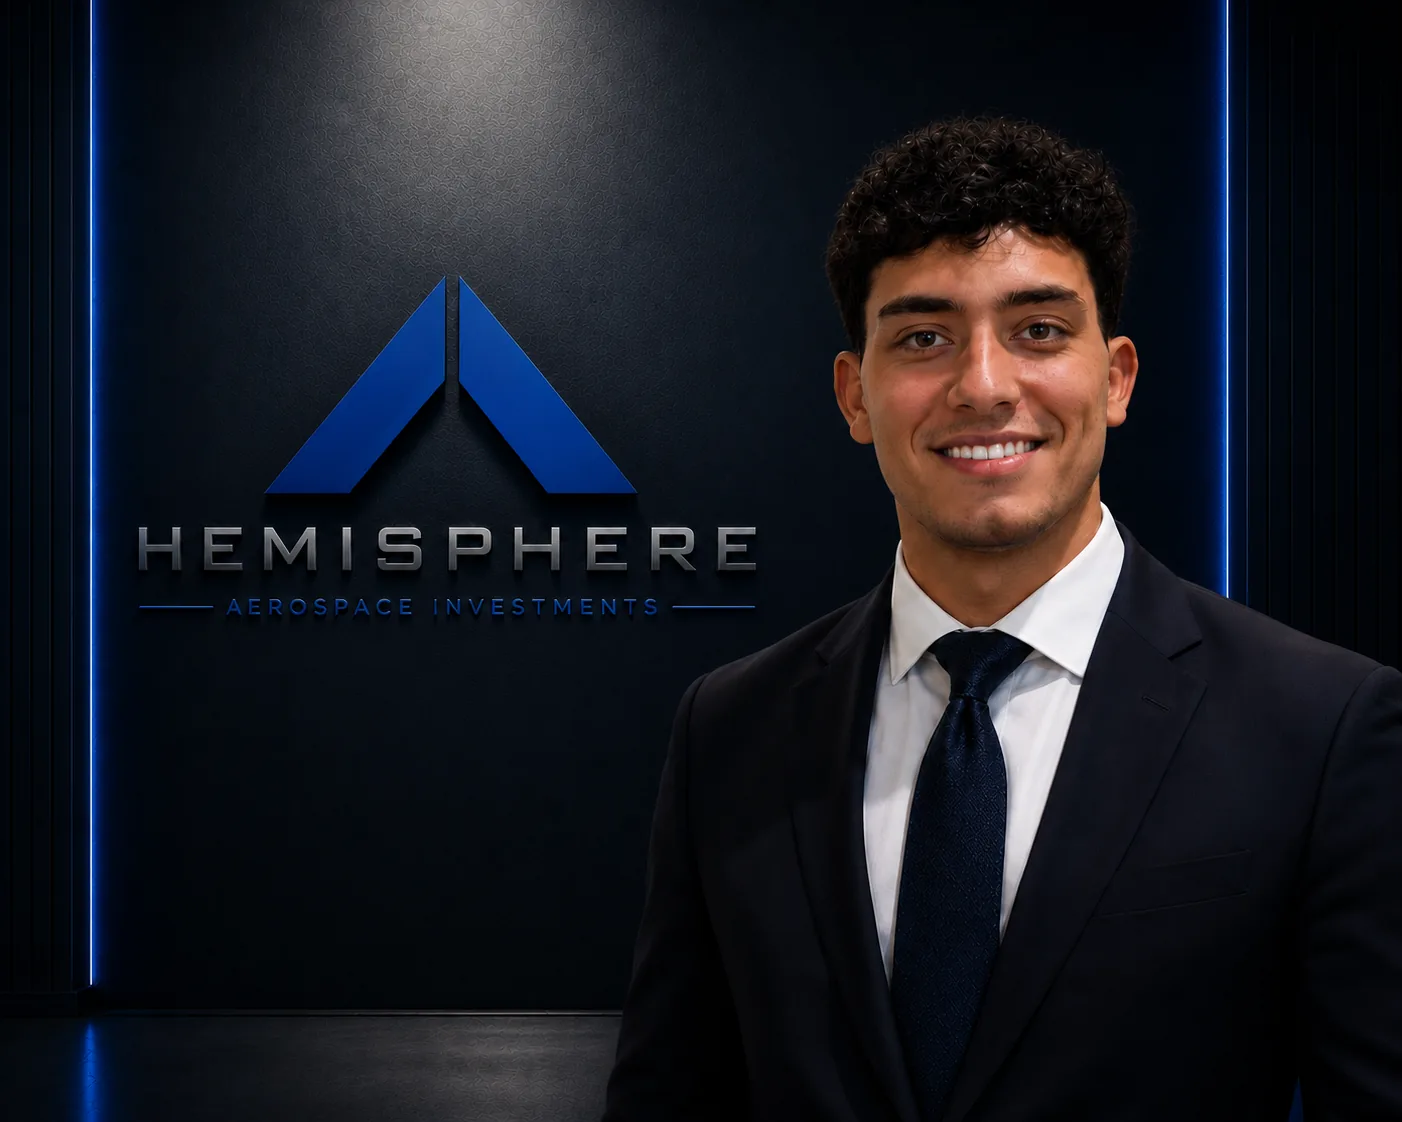
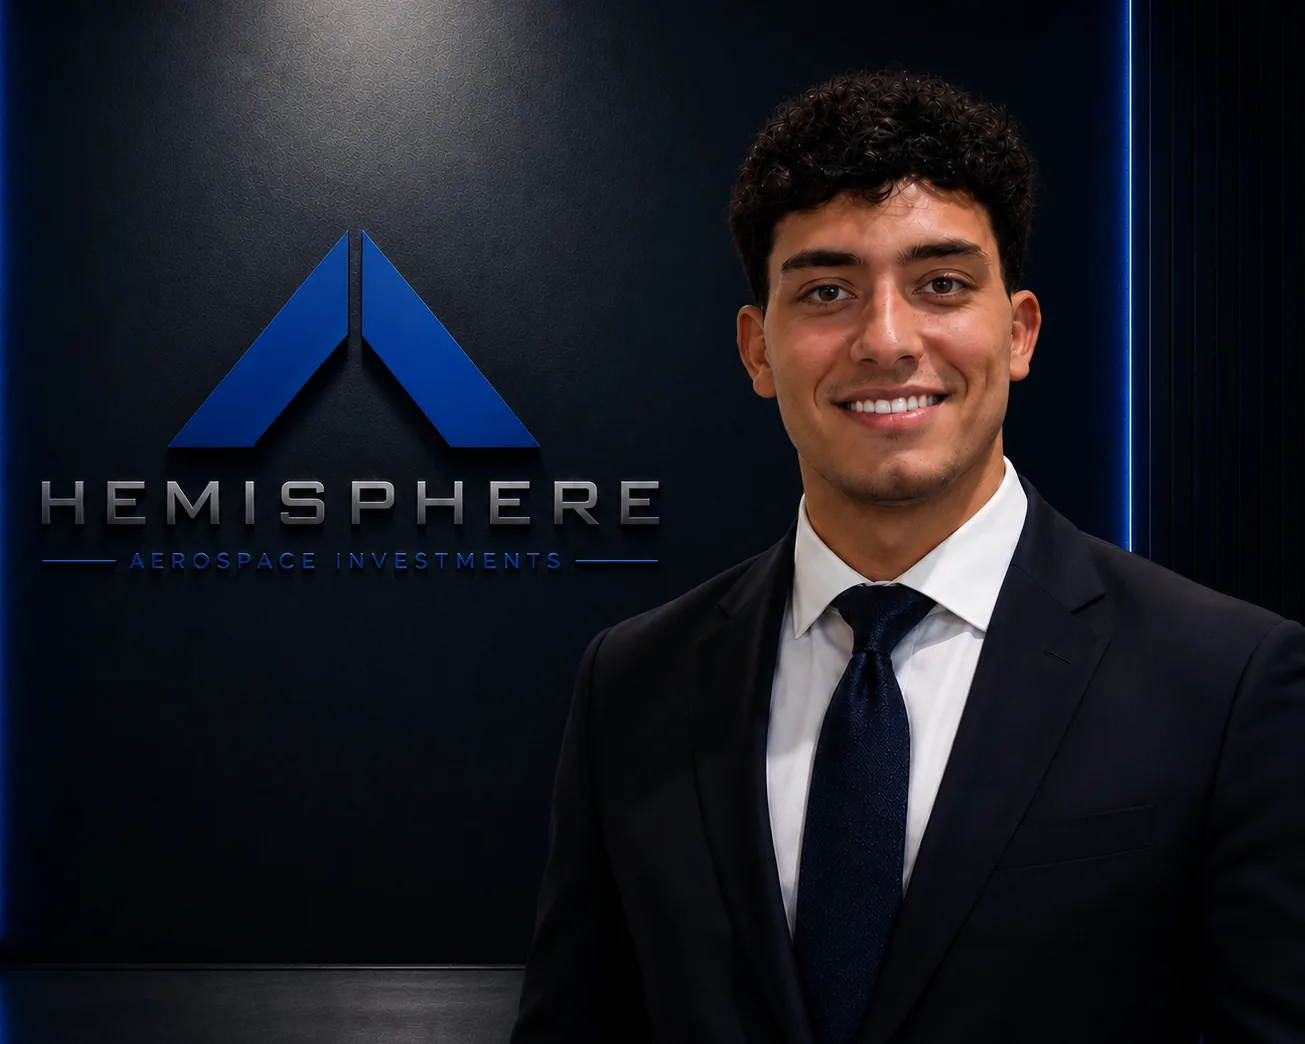
Tighten Dalton Sawyer portrait to match the leadership set
Measured head width across the four portraits: John and Tyler both sit
at 0.233 of frame, Dalton at 0.217, Thomas at 0.296. Dalton read as
slightly further from camera than the rest.

Re-crops Dalton from the full-resolution source at 1305x1044 (exactly
5:4, a 7% tighten), bringing his head to 0.233 of frame. The crop is
anchored to his face rather than the frame centre so he does not drift
in position, and it also trims the floor line at the bottom that the
other portraits do not show. Dimensions in images.ts updated to the true
crop size; no upscale, since the card renders at 357x285.

Thomas remains the outlier at 0.296. He is already the full frame, so
matching him would require zooming out, and no wider original exists.
Left as-is by decision.

diff --git a/lib/images.ts b/lib/images.ts
@@ -107,8 +107,8 @@ export const images = {
   },
   daltonSawyer: {
     src: "/images/dalton-sawyer.webp",
-    width: 1402,
-    height: 1122,
+    width: 1305,
+    height: 1044,
     alt: "Dalton Sawyer in a dark suit and navy tie, photographed beside the illuminated Hemisphere Aerospace Investments logo wall",
   },
   thomasLeath: {
